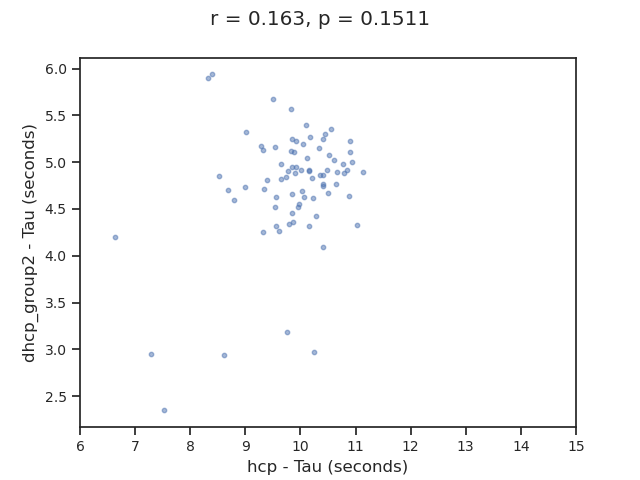
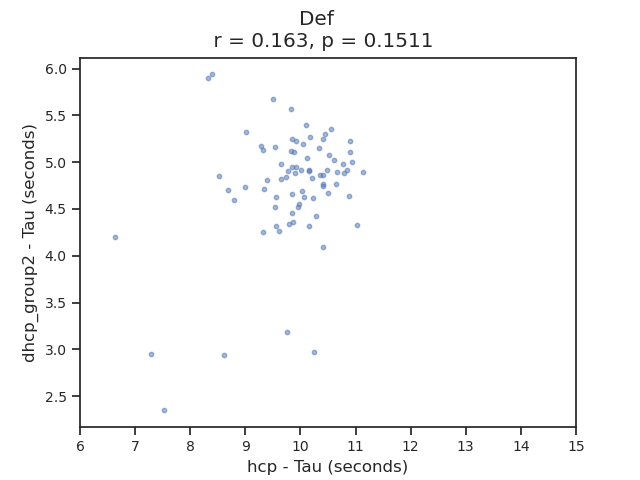
title added to by network correlations

Changed region(s): [[0.3125, 0.0, 0.6875, 0.0938]]

diff --git a/code/correlations.py b/code/correlations.py
@@ -43,7 +43,7 @@ def run_and_plot_corr_bynet(x,y,x_label,y_label,net_dict):
         plt.xlabel(f'{x_label} - Tau (seconds)', fontsize = 12)
         plt.ylabel(f'{y_label} - Tau (seconds)', fontsize = 12)
         plt.xlim((6,15))
-        plt.suptitle(f'r = {round(r,4)}, p = {round(p,4)}')
+        plt.suptitle(f'{net} \n r = {round(r,4)}, p = {round(p,4)}')
         plt.savefig(f'/dhcp/fmri_anna_graham/dhcp_hcp_timescales/figures/corr_{x_label}_{y_label}_{net}.png')
         #plt.show()
         plt.close()
